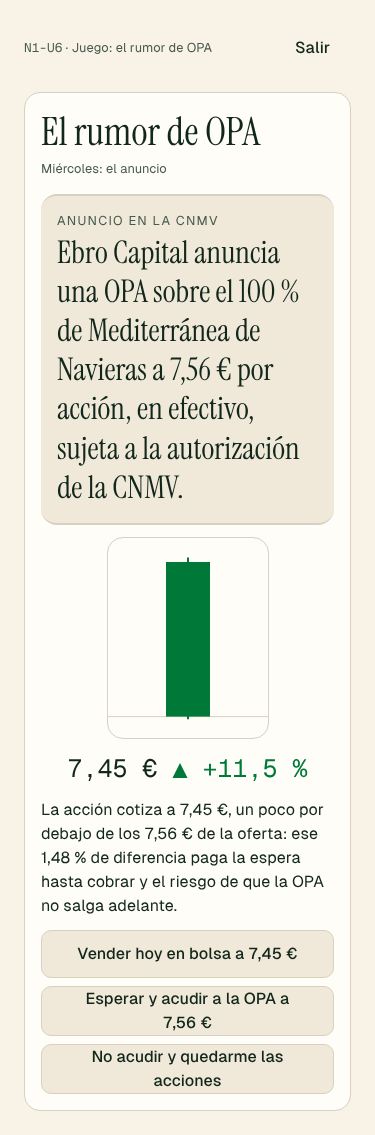
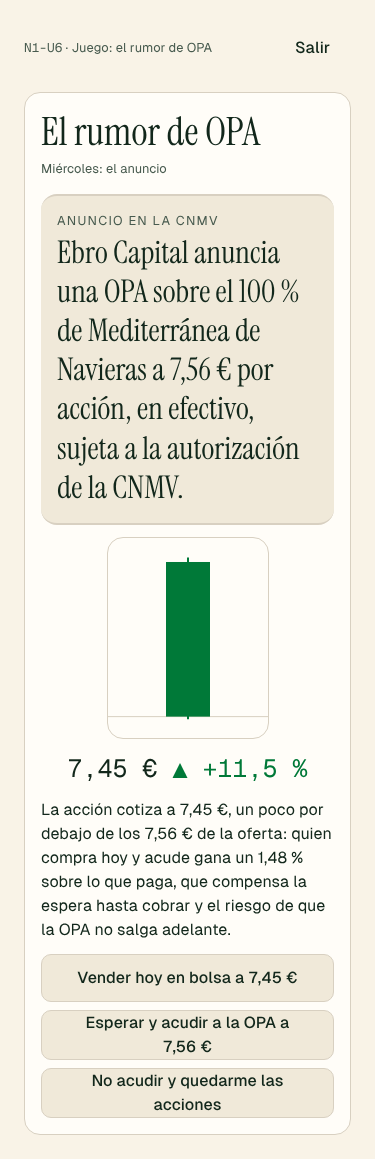
content: «El rumor de OPA» (n1-u6-l7) revisada y en reviewed; planta 0 completa
- Correcciones de las dos rondas del revisor: base del diferencial, cobro de la OPA en meses
  (autorización y plazo de aceptación), un rumor no hace pública una confirmación de dentro,
  operaciones personales del empleado y fuentes con artículos (RD 1066/2007, Ley 6/2023, CP 285
  y 285 bis). El resumen muestra el resultado de la apuesta por el rumor.
- Arreglo del texto fijo detectado por el test de i18n (&nbsp; en JSX).
- DECISIONES, CONTENIDO-QA, TEMARIO y spec. Las seis unidades de la planta 0 abren con un juego.

Claude-Session: https://claude.ai/code/session_01MmSrs1YdgLJhPMsRgWQM9q

diff --git a/src/features/games/TakeoverGame.tsx b/src/features/games/TakeoverGame.tsx
@@ -106,7 +106,7 @@ export function TakeoverGame({ seed, onDone }: Props) {
           <div>
             <dt className="text-text-2 text-sm">{t('takeover.premium')}</dt>
             <dd className="text-bull text-xl" data-num>
-              ▲&nbsp;+{formatNumber(r.premium, 2)}&nbsp;%
+              {`▲\u00a0+${formatNumber(r.premium, 2)}\u00a0%`}
             </dd>
           </div>
           <div>
@@ -119,6 +119,19 @@ export function TakeoverGame({ seed, onDone }: Props) {
                 : `+${formatEur(final === 'sell' ? r.gainSell : r.gainAccept)}`}
             </dd>
           </div>
+          {buyOnRumor && final !== 'reject' && (
+            <div className="col-span-2">
+              <dt className="text-text-2 text-sm">
+                {t('takeover.rumorBet', { n: formatNumber(EXTRA) })}
+              </dt>
+              <dd className="text-xl" data-num data-testid="tk-bet">
+                +{formatEur(final === 'sell' ? r.rumorSell : r.rumorAccept)}{' '}
+                <span className="text-text-2 text-sm">
+                  {t('takeover.rumorBetFalse', { loss: formatEur(r.falseLoss) })}
+                </span>
+              </dd>
+            </div>
+          )}
         </dl>
         <p className="text-lg" data-testid="tk-verdict">
           {r.score >= 1

diff --git a/src/engine/games/takeover-rumor.ts b/src/engine/games/takeover-rumor.ts
@@ -74,6 +74,9 @@ export interface TakeoverResult {
   gainSell: number;
   /** Lo que habrías perdido con las 1.000 de más si el rumor hubiera sido falso (€). */
   falseLoss: number;
+  /** Lo que ganan las 1.000 compradas por el rumor si acudes a la OPA / si vendes tras el anuncio (€). */
+  rumorAccept: number;
+  rumorSell: number;
   score: number;
 }
 
@@ -96,6 +99,8 @@ export function takeoverResult(s: TakeoverSetup, c: TakeoverChoices): TakeoverRe
     gainAccept: r2(MY_SHARES * (s.offer - s.p0)),
     gainSell: r2(MY_SHARES * (s.pAfter - s.p0)),
     falseLoss: r2(EXTRA * (s.pRumor - s.pFalse)),
+    rumorAccept: r2(EXTRA * (s.offer - s.pRumor)),
+    rumorSell: r2(EXTRA * (s.pAfter - s.pRumor)),
     score: Math.round((insider + final) * 1000) / 1000,
   };
 }

diff --git a/src/engine/games/takeover-rumor.test.ts b/src/engine/games/takeover-rumor.test.ts
@@ -43,6 +43,8 @@ describe('el rumor de OPA', () => {
     expect(r.gainAccept).toBeCloseTo(MY_SHARES * (s.offer - s.p0), 2);
     expect(r.gainSell).toBeLessThan(r.gainAccept);
     expect(r.falseLoss).toBeCloseTo(EXTRA * (s.pRumor - s.pFalse), 2);
+    expect(r.rumorAccept).toBeCloseTo(EXTRA * (s.offer - s.pRumor), 2);
+    expect(r.rumorSell).toBeLessThan(r.rumorAccept);
     expect(Object.keys(takeoverValues(r))).toHaveLength(14);
   });
 

diff --git a/docs/TEMARIO.md b/docs/TEMARIO.md
@@ -69,7 +69,7 @@ Cada bloque lleva su nivel de contenido (N1, N3…), que es el prefijo de sus ID
 **Planta 0 · Becario — Mercados en vivo (N1, sem. 1–6)**
 Empresa y acción · mercado primario/secundario, OPV · BME, mercado continuo, IBEX 35, **BME Growth**, índices mundiales · formación de precios, horquilla, liquidez · órdenes y subastas · cómo abrir un bróker en España · dividendos, **scrip dividend**, ampliaciones y **derechos de suscripción**, splits, recompras · **OPAs** (cómo funcionan en España) · capitalización y free float · OTC.
 🧮 rentabilidad total, rentabilidad por dividendo · 🏛 ganancias patrimoniales, dividendos, venta de derechos · 🧠 FOMO y efecto manada · 📊 porcentajes, VF, VA · 📄 anuncio de una OPA en la CNMV.
-**Unidades de la planta 0 y su juego** (IDs de siempre; cambia el orden): 1. La empresa y la acción (`n1-u1`) → **Tus primeras acciones** (`n1-u1-l6`, hecho: noticias de Naranjas, capitalización y free float) · 2. Precios, órdenes y subastas (`n1-u4`) → **La compra grande** (`n1-u4-l7`, hecho) y **La subasta de apertura** (`n1-u4-l8`, hecho) · 3. Bolsas e índices (`n1-u3`) → **¿Quién mueve el índice?** (`n1-u3-l6`, hecho) · 4. Operar en España: bróker, dividendos y fiscalidad (`n1-u5`) → **El primer dividendo** (`n1-u5-l7`, hecho) · 5. Mercado primario y secundario (`n1-u2`) → **La salida a bolsa** (`n1-u2-l6`, hecho) · 6. Operaciones corporativas y OPAs (`n1-u6`) → *rumor de OPA*. Psicología (FOMO, manada, exceso de confianza → *El trader impulsivo*) va dentro de las unidades 2 y 4 hasta que tenga unidad propia.
+**Unidades de la planta 0 y su juego** (IDs de siempre; cambia el orden): 1. La empresa y la acción (`n1-u1`) → **Tus primeras acciones** (`n1-u1-l6`, hecho: noticias de Naranjas, capitalización y free float) · 2. Precios, órdenes y subastas (`n1-u4`) → **La compra grande** (`n1-u4-l7`, hecho) y **La subasta de apertura** (`n1-u4-l8`, hecho) · 3. Bolsas e índices (`n1-u3`) → **¿Quién mueve el índice?** (`n1-u3-l6`, hecho) · 4. Operar en España: bróker, dividendos y fiscalidad (`n1-u5`) → **El primer dividendo** (`n1-u5-l7`, hecho) · 5. Mercado primario y secundario (`n1-u2`) → **La salida a bolsa** (`n1-u2-l6`, hecho) · 6. Operaciones corporativas y OPAs (`n1-u6`) → **El rumor de OPA** (`n1-u6-l7`, hecho; incluye el primer caso de ética: información privilegiada). Psicología (FOMO, manada, exceso de confianza → *El trader impulsivo*) va dentro de las unidades 2 y 4 hasta que tenga unidad propia.
 
 **Planta 1 · Analista Junior — Leer una empresa (N3, sem. 7–16)**
 Balance, PyG, flujos de caja y cómo se conectan · **PGC español vs NIIF/IFRS** · **consolidación** (minoritarios, puesta en equivalencia), **fondo de comercio y deterioros** (amortización en 10 años en PGC frente a test de deterioro en NIIF), provisiones, **arrendamientos (IFRS 16)**, **reconocimiento de ingresos (NIIF 15)**, **impuestos diferidos (NIC 12)** · estado de flujos por el método indirecto construido desde dos balances · ratios y análisis: árbol DuPont, ROIC frente a WACC, conversión de beneficio en caja · **circulante y ciclo de caja** · **financiación de la empresa:** préstamo bancario y sindicado, leasing, renting, factoring, confirming, emisión de bonos · estructura de capital (Modigliani-Miller intuitivo) · **coste de capital: CAPM, beta apalancada y desapalancada (Hamada), coste de la deuda después de impuestos y WACC** · política de dividendos · presupuesto de capital (VAN, TIR) · múltiplos · DCF paso a paso (FCFF, mitad de año, valor terminal por Gordon y por múltiplo) · trampas contables.

diff --git a/DECISIONES.md b/DECISIONES.md
@@ -474,3 +474,17 @@ Fuentes clonadas en `~/.compuesto-skills-src/` (fuera del repo). Revisión previ
 - **Término:** «libro de demanda» (book-building). «Libro de órdenes» queda para el del mercado secundario (`n1-u4`).
 - **Supuesto del juego (se dice en pantalla):** la demanda baja en línea recta a lo largo del rango (9,00–10,50 €). El cierre del primer día es el valor de la semilla × (1 + 0,015 × (veces cubierta − 2)), con un tope de 6 veces. Si la oferta no se cubre, el juego pide otro precio.
 - **Nota:** 1 con el precio más alto que no rompe el estreno ni sube más de un 15 %; 0,75 con otro precio bueno; 0,5 si sube más de un 15 % (dinero en la mesa); 0,25 si cierra por debajo del precio.
+
+## 2026-10-18 — Lección-juego «El rumor de OPA» (`n1-u6-l7`) y fin de la planta 0
+
+- **Decisión:** el juego de la unidad 6 de la planta 0 es una historia de tres días con Mediterránea de Navieras (tienes 1.000 acciones):
+  1. Lunes: rumor en prensa de una OPA de Ebro Capital. Comprar por el rumor no resta nota: es legal para un inversor cualquiera y se enseña el riesgo de que sea falso.
+  2. Martes: Hugo Ferrer, que asesora a Ebro, te da la confidencia. Lo correcto es no operar, no contarlo y avisar a cumplimiento normativo (Pilar Soler). Pesa el 60 % de la nota.
+  3. Miércoles: anuncio de la OPA con un premio del 20–30 %, y la acción cotiza un 1–2 % por debajo de la oferta. Vender en bolsa y acudir valen lo mismo; no acudir vale menos.
+- **Motivo:** es el primer caso del hilo de ética (TEMARIO §1) y el más útil para alguien que va a trabajar en banca.
+- **Concepto nuevo** `informacion-privilegiada` (nivel 1), que pasa a ser prerrequisito de `abuso-mercado` (N9).
+  - No entra todavía en la lista de conceptos de la unidad en `curriculum.json`: el test de salto revisado de `n1-u6` tendría que evaluarlo, y eso exige ampliar el banco y volver a revisarlo.
+  - 🛑 Pendiente: añadir una pregunta al test de salto de `n1-u6` sobre información privilegiada (se puede hacer junto con la ampliación de los bancos a 12 preguntas, ya aprobada).
+- **Validación:** la comprobación de conceptos «adelantados» compara ahora el orden de las plantas (`levelOrder`), no el número de nivel, igual que los prerrequisitos.
+- 🛑 «Ebro Capital» (ficticio, ya usado en `n1-u6-l5`) queda pendiente de comprobar en el registro de la CNMV, como el resto de los nombres.
+- **Planta 0 completa:** las seis unidades empiezan con una lección-juego.

diff --git a/CONTENIDO-QA.md b/CONTENIDO-QA.md
@@ -191,3 +191,23 @@ Abre la planta 0 (unidad `n1-u1`). Juego: cinco noticias de Naranjas del Turia; 
 - **Ronda 2:** aprobada sin errores. Estado: `reviewed`.
 - **Fuentes:** las dos nuevas de la CNMV (Mercado primario y la guía rápida GR07) se localizaron con una búsqueda que citaba su contenido, pero no se pudieron abrir desde el entorno.
 - 🛑 Pendiente de la revisión de Javier.
+
+## n1-u6-l7 — Lección-juego «El rumor de OPA» (18/10/2026)
+
+- **Ronda 1 (revisor-financiero):** cambios necesarios. Mayores aplicados:
+  - el diferencial se medía con la base contraria a la de e3;
+  - el cobro de la OPA llega en meses, no en semanas (autorización de la CNMV y plazo de 15 a 70 días; art. 23 del RD 1066/2007), y e8 dice ahora «se acaba de anunciar»;
+  - un rumor no hace pública la confirmación de alguien de dentro;
+  - las operaciones personales de un empleado de banco pasan por cumplimiento.
+
+  Menores aplicados:
+  - «de forma apreciable»;
+  - Hugo tampoco debía contarlo;
+  - información obtenida por casualidad;
+  - el premio medido sobre el precio del rumor;
+  - e3 en condicional;
+  - `okReject` matizado;
+  - el resultado de la apuesta por el rumor en el resumen;
+  - fuentes con artículos (RD 1066/2007, Ley 6/2023 con identificador BOE-A-2023-7053, comprobado por búsqueda, y Código Penal arts. 285 y 285 bis).
+- **Ronda 2:** aprobada; aplicado un retoque de estilo en `spreadNote`. Estado: `reviewed`.
+- 🛑 Pendiente de la revisión de Javier y de la pregunta del test de salto sobre información privilegiada.

diff --git a/docs/specs/rumor-de-opa.md b/docs/specs/rumor-de-opa.md
@@ -1,0 +1,17 @@
+# Spec: lección-juego «El rumor de OPA» (`n1-u6-l7`)
+
+Motor: `src/engine/games/takeover-rumor.ts`. Interfaz: `src/features/games/TakeoverGame.tsx`. Textos: `es.json` → `takeover`.
+
+## Reglas
+- Mediterránea de Navieras: 25.000.000 de acciones. Tienes 1.000, y antes del rumor cotiza entre 6,00 y 6,40 €.
+- El día del rumor sube entre un 5 % y un 8 %. Oferta: un premio de entre el 20 % y el 30 % sobre el precio de antes del rumor. Tras el anuncio, cotiza entre un 1 % y un 2 % por debajo de la oferta. Si el rumor hubiera sido falso, la acción habría vuelto al 99 % del precio de antes.
+- Nota: 0,6 por no operar con la confidencia. A eso se suman 0,4 por vender o acudir, o 0,2 por no acudir.
+
+## Escenarios
+- **Lunes:** titular del rumor y vela. Si compras 1.000 más, se explica que es legal para un inversor cualquiera (en un banco pasa por cumplimiento) y cuánto perderías si fuera falso.
+- **Martes:** bocadillo de Hugo Ferrer con la confidencia. Si compras, Pilar Soler lo para y se explica que es abuso de mercado. Si avisas, Pilar lo registra.
+- **Miércoles:** anuncio en la CNMV, vela, diferencial y tres decisiones, cada una con su porqué.
+- **Resumen:** precio antes del rumor, precio de la OPA, premio, ganancia desde el viernes y, si compraste por el rumor, el resultado de esa apuesta.
+
+## Verificación
+`takeover-rumor.test.ts`, `tests/takeover-game.test.tsx`, `e2e/leccion-juego.spec.ts` (axe y 375 px en cada día), `e2e/n1u6.spec.ts` (la unidad entera) y `content:validate`.
